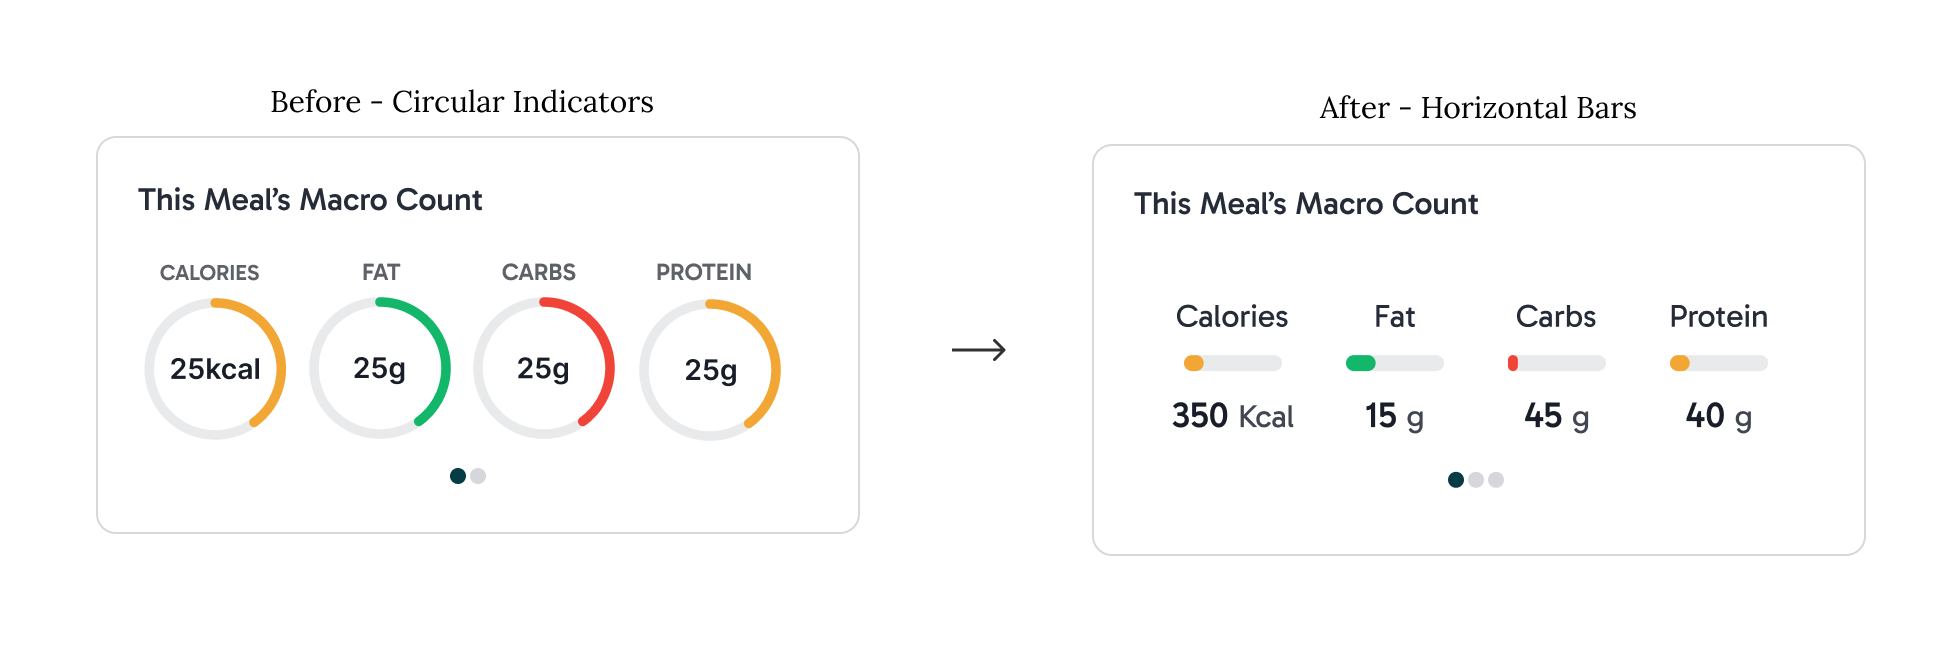
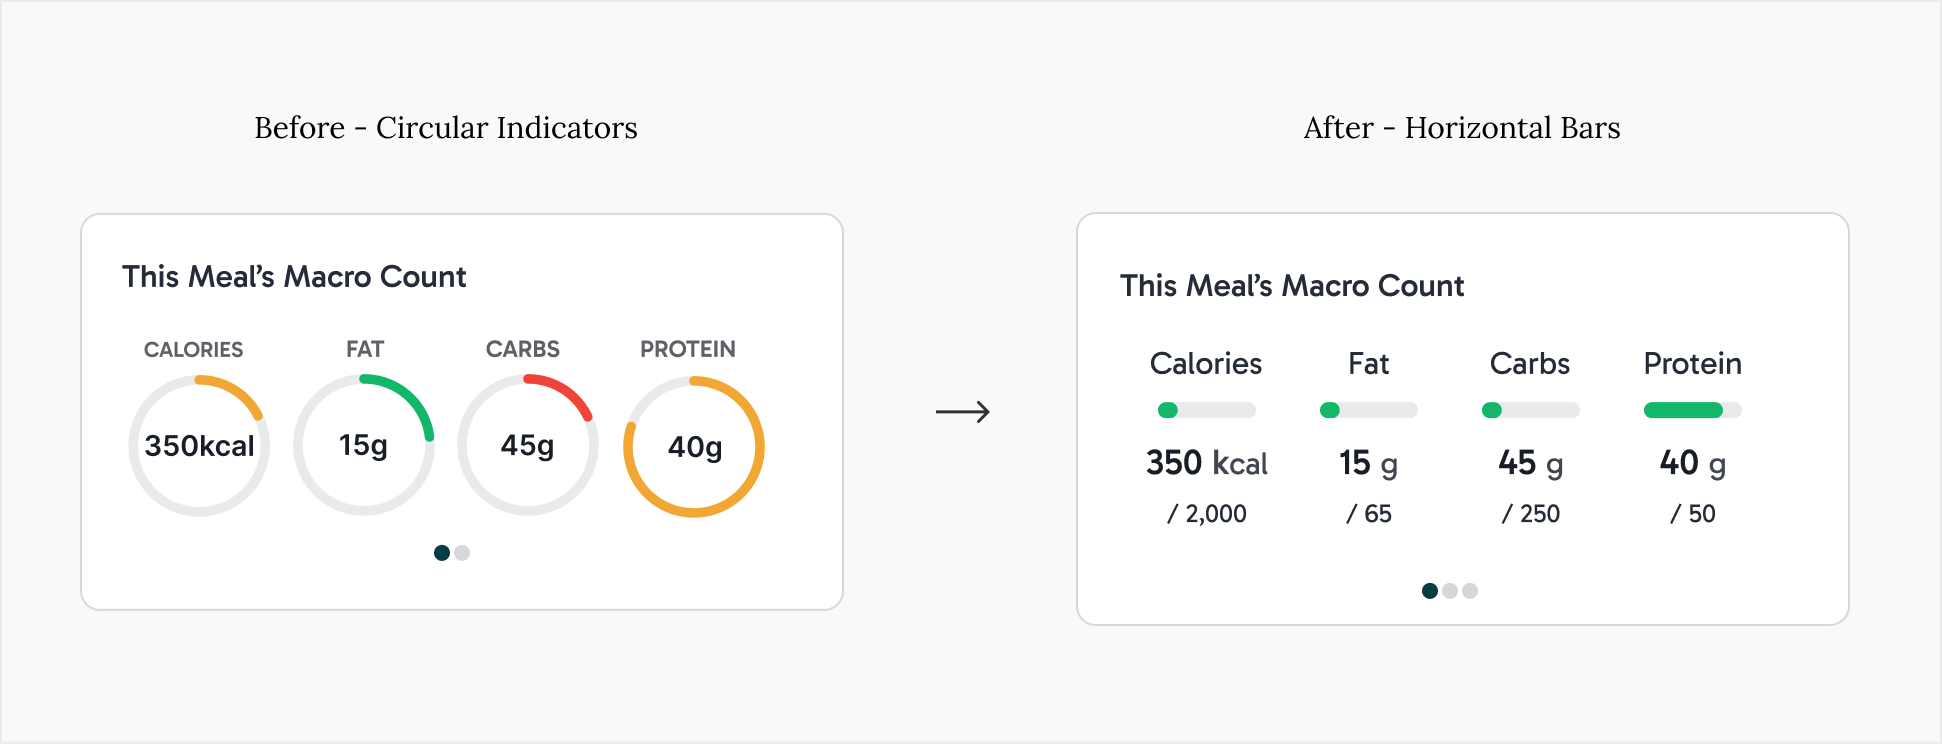
Iteration section: honest macro data and rewritten copy
Both panels now show the same meal against the same goals, so the
before/after compares encodings rather than two datasets. The after
bars are proportional to each macro's stated daily goal.

diff --git a/flourish.html b/flourish.html
@@ -1655,10 +1655,10 @@
       <div class="cs-section" id="iteration" style="margin-bottom: 96px;">
         <p class="cs-section-label">Testing & Iteration</p>
         <h2>The macro visualization wasn't working.</h2>
-        <p>In usability testing, users misread the circular indicators because the visual proportions didn't clearly communicate the relative scale of each macro.</p>
-        <p>I replaced them with horizontal bars, making differences easier to compare at a glance.</p>
+        <p>Users misread the circular indicators because they couldn&rsquo;t tell whether 45g of carbs was a lot &mdash; the arcs implied a scale without showing one.</p>
+        <p>Horizontal bars with each macro anchored to its daily target gave them the reference point the rings were missing.</p>
         <div style="position:relative; left:-30px; width:calc(100% + 40px); margin-top: 36px;">
-          <img src="images/iteration.png" alt="Iteration — circular vs horizontal progress indicators" style="width:100%; display:block;">
+          <img src="images/iteration.png" alt="The same meal shown two ways: circular indicators, then horizontal bars with each macro anchored to its daily goal" style="width:100%; display:block;">
         </div>
       </div>
 
